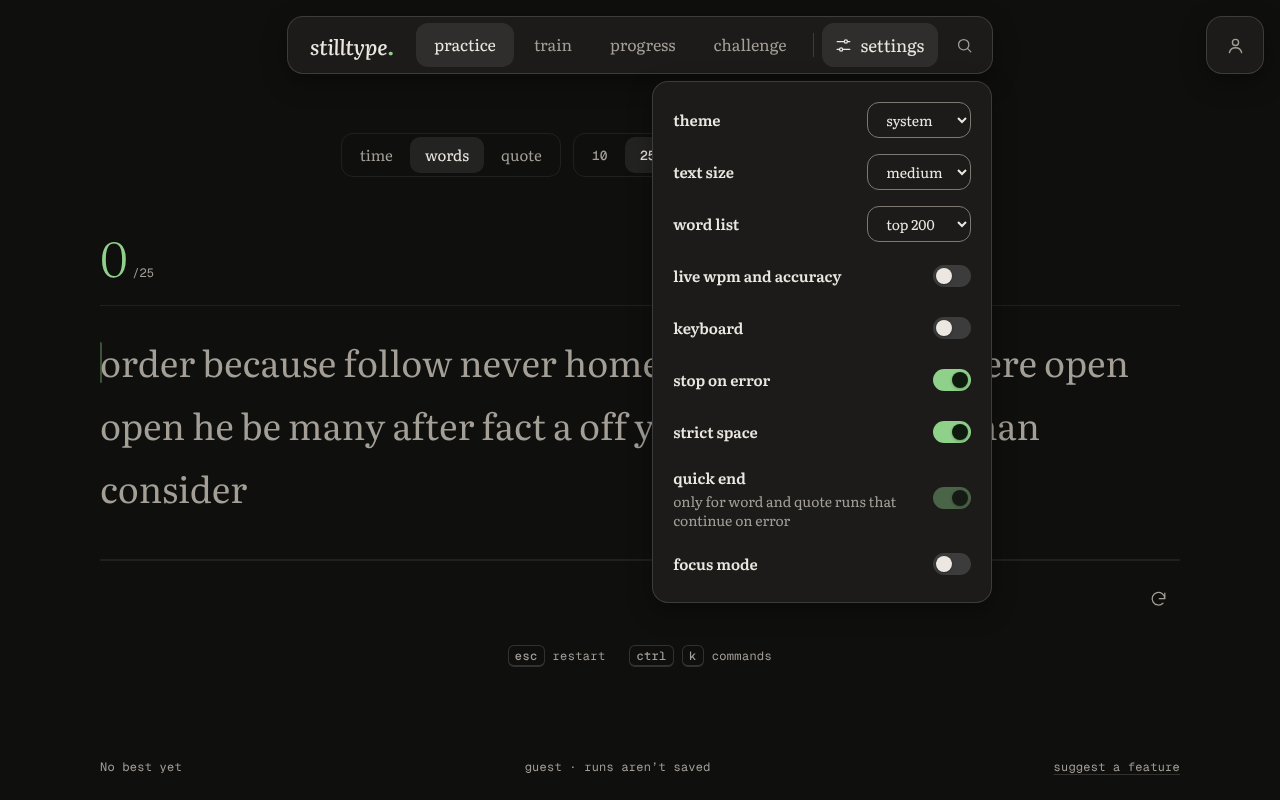
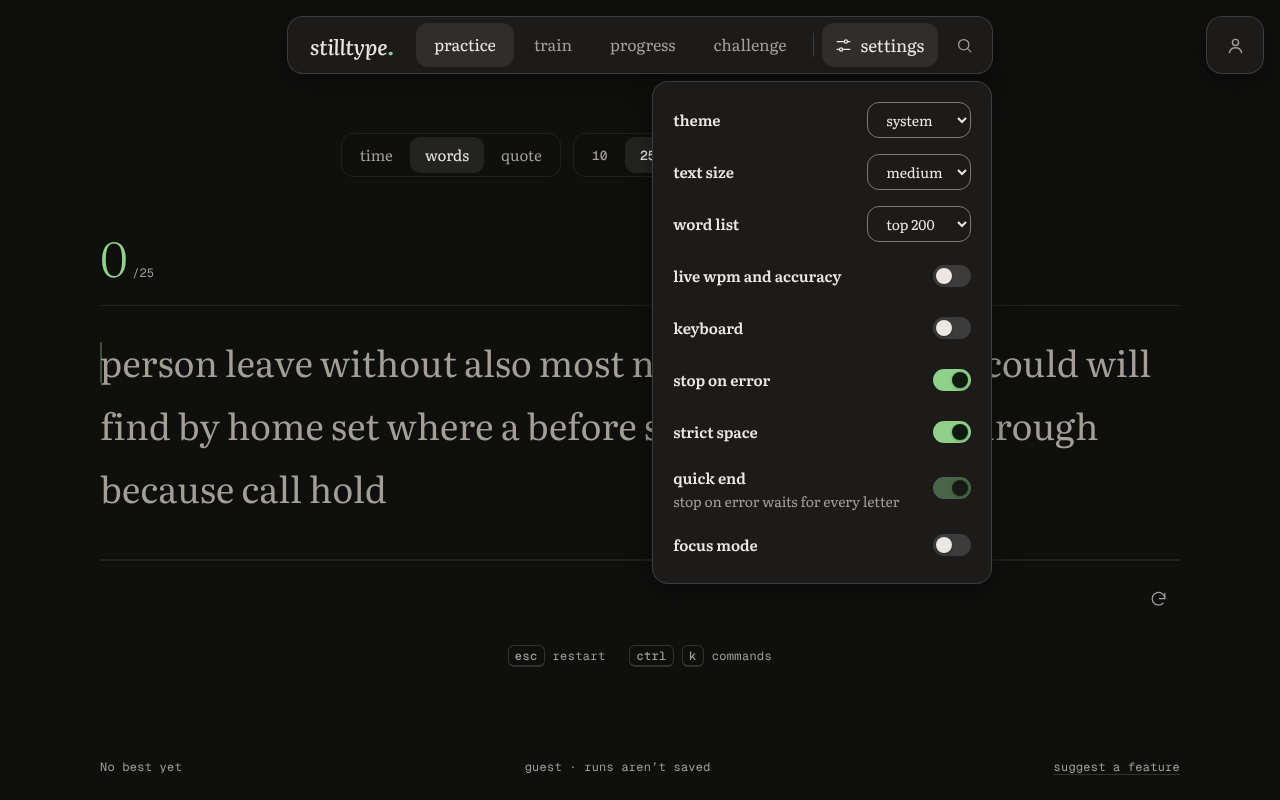
Read input rule limits from the session, not the test shape
Quick end is disabled in every drill (a timed minute whatever its baseline) and a
rule change restarts the same session kind; the daily and a retest keep their rules.

Claude-Session: https://claude.ai/code/session_01SaBNo9RHRaTR8cCUjK1iLD

diff --git a/src/app.js b/src/app.js
@@ -205,11 +205,12 @@ function describeRules(value) {
   return inputRules(value).map((rule) => ` · ${RULE_LABELS[rule]}`).join('');
 }
 
-// A drill is always one minute of generated text, whatever the baseline was, so quick end never applies.
+// A drill is always one minute of generated text, whatever the baseline was. Its conditions record
+// quick end at the default (sessionConditions), so only rules that applied are listed.
 function describeRun(run) {
   if (run.kind === 'daily') return `daily · ${run.challengeDate} · ${run.firstDailyAttempt ? 'first attempt' : 'repeat attempt'}${run.firstDailyAttempt && !run.fresh ? ' · previously displayed passage' : ''} · ${describeConditions(run.conditions)}`;
   if (run.kind !== 'drill') return describeConditions(run.conditions);
-  return `drill · 60 s · english · ${run.conditions.inputClass === 'touch' ? 'touch input' : 'physical keyboard'} · ${run.conditions.correctionPolicy === 'relaxed' ? 'continue on error' : 'stop on error'}${describeRules({ ...run.conditions, mode: 'time' })}`;
+  return `drill · 60 s · english · ${run.conditions.inputClass === 'touch' ? 'touch input' : 'physical keyboard'} · ${run.conditions.correctionPolicy === 'relaxed' ? 'continue on error' : 'stop on error'}${describeRules(run.conditions)}`;
 }
 
 function signed(value, unit) {
@@ -297,8 +298,7 @@ function applyPreferences() {
   $('live-toggle').checked = prefs.liveMetrics;
   $('keyboard-toggle').checked = prefs.keyboard;
   $('stop-on-error-toggle').checked = prefs.stopOnError;
-  $('strict-space-toggle').checked = prefs.strictSpace;
-  syncQuickEnd();
+  syncRules();
   $('focus-toggle').checked = prefs.focusMode;
   $('keyboard').hidden = !prefs.keyboard;
   applyTheme();
@@ -309,17 +309,30 @@ function applyPreferences() {
   showBest();
 }
 
-// Quick end only changes word and quote runs that let a mistake stand. Elsewhere the switch is
-// disabled but keeps its value, like punctuation in a quote test, and a note says where it applies.
-function syncQuickEnd() {
-  const applies = quickEndApplies(conditions());
-  $('quick-end-toggle').disabled = !applies;
+// Why a rule switch can't change the session on hand, shown under it and read as its description.
+const RULE_NOTES = {
+  drill: 'drills end on the clock',
+  timed: 'timed runs end on the clock',
+  stopOnError: 'stop on error waits for every letter',
+  daily: 'the daily keeps its own rules',
+  retest: 'a retest keeps its baseline’s rules',
+};
+
+// Quick end only changes word and quote runs that let a mistake stand. Where the session can't take
+// it the switch is disabled but keeps its value, like punctuation in a quote test; #rules-note says
+// when the session keeps the rules it started with. Synced on every preference and view change.
+function syncRules() {
+  const limits = ruleLimits(ruleSession());
+  $('strict-space-toggle').checked = prefs.strictSpace;
   $('quick-end-toggle').checked = prefs.quickEnd;
-  $('quick-end-note').hidden = applies;
+  $('quick-end-toggle').disabled = Boolean(limits.quickEnd);
+  for (const [id, reason] of [['quick-end-note', limits.quickEnd], ['rules-note', limits.fixed]]) {
+    $(id).textContent = RULE_NOTES[reason] || '';
+    $(id).hidden = !reason;
+  }
 }
 
 function setModeControls() {
-  syncQuickEnd();
   document.querySelectorAll('[data-mode]').forEach((button) => {
     const selected = button.dataset.mode === prefs.mode;
     button.classList.toggle('is-active', selected);
@@ -466,11 +479,46 @@ function choosePassage(extraSeen = []) {
   });
 }
 
-function sessionDurationMs() {
-  if (sessionKind === 'daily') return null;
-  if (sessionKind === 'drill') return 60000;
+function sessionDurationMs(kind = sessionKind) {
+  if (kind === 'daily') return null;
+  if (kind === 'drill') return 60000;
   if (prefs.mode === 'time') return prefs.duration * 1000;
   return null;
+}
+
+// Why strict space and quick end can't change a session's run, read from the session itself (its
+// kind, its timing and the conditions its run was built with), never from the test-shape
+// preferences: a drill started from a words baseline is still a timed minute. quickEnd names why
+// quick end does nothing there ('' when it applies); fixed names a session that keeps the rules it
+// started with (the daily's are set, and a retest has to match its baseline).
+function ruleLimits({ kind, run }) {
+  return {
+    fixed: kind === 'daily' || kind === 'retest' ? kind : '',
+    quickEnd: sessionDurationMs(kind) !== null ? (kind === 'drill' ? 'drill' : 'timed')
+      : run.correctionPolicy === 'relaxed' ? '' : 'stopOnError',
+  };
+}
+
+// The session the rule switches act on: the run waiting or in progress or, once it's over, the next
+// one, which Run again makes the daily again or a practice run.
+function ruleSession() {
+  if (attempt && ['ready', 'running'].includes(attempt.status)) return { kind: sessionKind, run: attempt.conditions };
+  const kind = sessionKind === 'daily' ? 'daily' : 'practice';
+  return { kind, run: sessionConditions(kind) };
+}
+
+// The conditions a new run of this kind is built with. The daily's rules are fixed and a retest
+// takes its baseline's, whatever the switches say now. A rule that can't change the run is recorded
+// at its default, so a drill's conditions and key never carry quick end.
+function sessionConditions(kind) {
+  if (kind === 'daily') return dailyConditions();
+  const run = conditions();
+  if (kind === 'retest' && baselineAttempt) {
+    run.strictSpace = baselineAttempt.conditions.strictSpace === true;
+    run.quickEnd = baselineAttempt.conditions.quickEnd !== false;
+  }
+  if (ruleLimits({ kind, run }).quickEnd) run.quickEnd = true;
+  return run;
 }
 
 function configureSessionCopy() {
@@ -538,7 +586,7 @@ function resetSession(kind = sessionKind, { focus = false, selectedPassage = nul
     text: passage.text,
     textId: passage.id,
     kind: kind === 'practice' ? 'test' : kind,
-    conditions: kind === 'daily' ? dailyConditions() : conditions(),
+    conditions: sessionConditions(kind),
   });
   if (kind === 'daily') {
     attempt.challengeDate = passage.day;
@@ -1060,6 +1108,7 @@ function switchView(view) {
     else control.removeAttribute('aria-current');
   });
   setRunning(false);
+  syncRules();
   // Pills in a hidden screen measured zero width; remeasure every group now it is visible.
   updateGlides();
   if (view === 'progress') renderHistory();
@@ -1070,7 +1119,9 @@ function switchView(view) {
 
 function navigate(view) {
   if (view === 'practice') {
-    if (!attempt || sessionKind !== 'practice' || ['complete', 'interrupted'].includes(attempt.status)) resetSession('practice');
+    // A waiting passage is rebuilt if strict space or quick end changed while another screen showed.
+    const staleRules = attempt && inputRules(attempt.conditions).join() !== inputRules(sessionConditions('practice')).join();
+    if (!attempt || sessionKind !== 'practice' || ['complete', 'interrupted'].includes(attempt.status) || staleRules) resetSession('practice');
     switchView('practice');
     return;
   }
@@ -1985,16 +2036,19 @@ function setStopOnError(enabled) {
   if (document.body.dataset.view === 'practice') resetSession('practice');
 }
 
-// Strict space and quick end change how a run is scored, so like stop on error they start a fresh
-// passage. The daily keeps its fixed rules, so it stays; a practice passage that hasn't started is
-// rebuilt from any screen, so the run on return matches the switch.
+// Strict space and quick end change how a run is scored, so a change on the practice screen starts
+// the session again as the same kind: a drill stays a drill. A session that can't take it (quick
+// end in a timed run, the daily, a retest) carries on and the preference waits for a run it applies
+// to; the switch's note says why. Other screens stay put, and a practice passage left waiting there
+// is rebuilt when practice is shown again (navigate).
 function setInputRule(key, enabled) {
   if (prefs[key] === enabled) return;
   prefs[key] = enabled;
   applyPreferences();
   saveProfile();
-  if (sessionKind === 'daily') return;
-  if (document.body.dataset.view === 'practice' || (sessionKind === 'practice' && attempt?.status === 'ready')) resetSession('practice');
+  const limits = ruleLimits(ruleSession());
+  if (limits.fixed || (key === 'quickEnd' && limits.quickEnd)) return;
+  if (document.body.dataset.view === 'practice') resetSession(sessionKind);
 }
 
 function setWordList(id) {
@@ -2020,7 +2074,7 @@ function paletteCommands(query) {
     ...wordListIds.map((id) => ({ group: 'test', label: `word list · top ${id}`, keywords: 'common words vocabulary 200 1000 5000 10000 monkeytype easier harder', hint: prefs.wordList === id ? 'current' : '', on: prefs.wordList === id, disabled: prefs.mode === 'quote', run: () => { navigate('practice'); setWordList(id); } })),
     { group: 'test', label: 'stop on error', keywords: 'mistakes correction continue', hint: onOff(prefs.stopOnError), on: prefs.stopOnError, run: () => setStopOnError(!prefs.stopOnError) },
     { group: 'test', label: 'strict space', keywords: 'space bar early skip word mistakes input', hint: onOff(prefs.strictSpace), on: prefs.strictSpace, run: () => setInputRule('strictSpace', !prefs.strictSpace) },
-    { group: 'test', label: 'quick end', keywords: 'finish last word end mistakes submit confirm', hint: onOff(prefs.quickEnd), on: prefs.quickEnd, disabled: !quickEndApplies(conditions()), run: () => setInputRule('quickEnd', !prefs.quickEnd) },
+    { group: 'test', label: 'quick end', keywords: 'finish last word end mistakes submit confirm', hint: onOff(prefs.quickEnd), on: prefs.quickEnd, disabled: Boolean(ruleLimits(ruleSession()).quickEnd), run: () => setInputRule('quickEnd', !prefs.quickEnd) },
     ...['dark', 'light', 'system'].map((theme) => ({ group: 'display', label: `theme · ${theme}`, keywords: 'colour color mode appearance', hint: prefs.theme === theme ? 'current' : '', on: prefs.theme === theme, run: () => { prefs.theme = theme; applyTheme(); saveProfile(); } })),
     ...[['22', 'small'], ['28', 'medium'], ['36', 'large']].map(([size, name]) => ({ group: 'display', label: `text size · ${name}`, keywords: 'font passage bigger smaller', hint: prefs.fontSize === size ? 'current' : '', on: prefs.fontSize === size, run: () => { prefs.fontSize = size; applyPreferences(); saveProfile(); } })),
     { group: 'display', label: 'live metrics', keywords: 'wpm accuracy while typing', hint: onOff(prefs.liveMetrics), on: prefs.liveMetrics, run: () => togglePreference('liveMetrics') },

diff --git a/e2e/strict-space.spec.js b/e2e/strict-space.spec.js
@@ -1,9 +1,13 @@
-import { test, expect, chooseWords, openApp, openSettings, openView, passageText, typeInto } from './fixtures.js';
+import { test, expect, chooseWords, completePassage, openApp, openSettings, openView, passageText, typeInto } from './fixtures.js';
 
 // Committed docs screenshots are only rewritten when SCREENSHOTS is set; normal runs write to test output.
 const shot = (testInfo, name) => (process.env.SCREENSHOTS ? `docs/screenshots/strict-space/${name}` : testInfo.outputPath(name));
 const STRICT_NOTICE = 'Strict space is on. Type the next letter.';
 const SUBMIT_NOTICE = 'The last word has a mistake. Fix it, or press space to finish.';
+const TIMED_NOTE = 'timed runs end on the clock';
+const DRILL_NOTE = 'drills end on the clock';
+const DAILY_NOTE = 'the daily keeps its own rules';
+const RETEST_NOTE = 'a retest keeps its baseline’s rules';
 // A realistic typing pace for the runs that end up in screenshots.
 const PACE = { delay: 140 };
 
@@ -180,12 +184,12 @@ test('quick end off finishes as soon as the last word is fixed', async ({ page }
 
 test('quick end is disabled where it changes nothing, and the palette follows', async ({ page }) => {
   await openApp(page);
-  // Timed runs end on the clock. The switch keeps its value and says where it applies.
+  // Timed runs end on the clock. The switch keeps its value and says why it can't change the run.
   await openSettings(page);
   await expect(page.locator('#quick-end-toggle')).toBeDisabled();
   await expect(page.locator('#quick-end-toggle')).toBeChecked();
   await expect(page.locator('#quick-end-note')).toBeVisible();
-  await expect(page.locator('#quick-end-toggle')).toHaveAccessibleDescription('only for word and quote runs that continue on error');
+  await expect(page.locator('#quick-end-toggle')).toHaveAccessibleDescription(TIMED_NOTE);
   await page.locator('details.preferences summary').click();
   await page.keyboard.press('Control+k');
   await page.locator('#palette-input').fill('quick end');
@@ -197,11 +201,12 @@ test('quick end is disabled where it changes nothing, and the palette follows', 
   await expect(page.locator('#quick-end-toggle')).toBeEnabled();
   await expect(page.locator('#quick-end-toggle')).toBeChecked();
   await expect(page.locator('#quick-end-note')).toBeHidden();
+  await expect(page.locator('#quick-end-toggle')).toHaveAccessibleDescription('');
   // Stop on error already waits for every letter.
   await page.locator('#stop-on-error-toggle').check();
   await expect(page.locator('#quick-end-toggle')).toBeDisabled();
   await expect(page.locator('#quick-end-toggle')).toBeChecked();
-  await expect(page.locator('#quick-end-note')).toBeVisible();
+  await expect(page.locator('#quick-end-note')).toHaveText('stop on error waits for every letter');
   await page.locator('#stop-on-error-toggle').uncheck();
   await expect(page.locator('#quick-end-toggle')).toBeEnabled();
   await expect(page.locator('#quick-end-toggle')).toBeChecked();
@@ -234,7 +239,10 @@ test('the daily challenge keeps its fixed rules whatever these settings say', as
   await expect(page.locator('#typing-screen')).toHaveAttribute('data-session', 'daily');
   await expect(page.locator('#condition-line')).toContainText('first attempt');
   await expect(page.locator('#condition-line')).toContainText('continue on error · corpus');
-  // Changing a rule the daily ignores leaves the daily (and its first attempt) in place.
+  // Changing a rule the daily ignores leaves the daily (and its first attempt) in place, and says so.
+  await openSettings(page);
+  await expect(page.locator('#rules-note')).toHaveText(DAILY_NOTE);
+  await expect(page.locator('#quick-end-toggle')).toHaveAccessibleDescription(DAILY_NOTE);
   await setSwitch(page, 'strict-space-toggle', false);
   await expect(page.locator('#typing-screen')).toHaveAttribute('data-session', 'daily');
   await expect(page.locator('#condition-line')).toContainText('first attempt');
@@ -280,11 +288,88 @@ test('a retest of a stop-on-error baseline leaves the quick end preference alone
   await expect(page.locator('#quick-end-toggle')).toBeChecked();
 });
 
+test('a drill from a words baseline is timed: quick end is disabled and a rule change keeps the drill', async ({ page }, testInfo) => {
+  await page.emulateMedia({ colorScheme: 'dark' });
+  await openApp(page);
+  await chooseWords(page, 10);
+  await setSwitch(page, 'quick-end-toggle', false);
+  // Typed at a person's pace, since the best it sets shows in the screenshot.
+  await typeInto(page, await passageText(page), '#typing-input', PACE);
+  await expect(page.locator('body')).toHaveAttribute('data-view', 'results');
+  await page.locator('#start-drill').click();
+  await expect(page.locator('#typing-screen')).toHaveAttribute('data-session', 'drill');
+  // The baseline was a words run, but every drill is a timed minute, so quick end has nothing to change.
+  await expect(page.locator('#condition-line')).toHaveText('drill · 60 s · english · physical keyboard · continue on error');
+  await openSettings(page);
+  await expect(page.locator('#quick-end-toggle')).toBeDisabled();
+  await expect(page.locator('#quick-end-toggle')).not.toBeChecked();
+  await expect(page.locator('#quick-end-note')).toBeVisible();
+  await expect(page.locator('#quick-end-toggle')).toHaveAccessibleDescription(DRILL_NOTE);
+  await expect(page.locator('#rules-note')).toBeHidden();
+  await settle(page);
+  await page.screenshot({ path: shot(testInfo, 'drill-note-dark.png') });
+  await page.locator('details.preferences summary').click();
+  await page.keyboard.press('Control+k');
+  await page.locator('#palette-input').fill('quick end');
+  await expect(page.locator('#palette-list [role="option"]', { hasText: 'quick end' })).toHaveCount(0);
+  await page.keyboard.press('Escape');
+  await expect(page.locator('#palette')).toBeHidden();
+
+  // Strict space mid-drill starts the same drill again under the new rule; it never drops to practice.
+  const title = await page.locator('#session-title').textContent();
+  const drill = await passageText(page);
+  await typeInto(page, drill.slice(0, 3));
+  await expect(page.locator('#typing-status')).toHaveText('In progress');
+  await page.mouse.move(5, 5);
+  await page.mouse.move(40, 40);
+  await setSwitch(page, 'strict-space-toggle', true);
+  await expect(page.locator('body')).toHaveAttribute('data-view', 'practice');
+  await expect(page.locator('#typing-screen')).toHaveAttribute('data-session', 'drill');
+  await expect(page.locator('#session-title')).toHaveText(title);
+  await expect(page.locator('#typing-status')).toHaveText('Ready');
+  await expect(page.locator('#condition-line')).toHaveText('drill · 60 s · english · physical keyboard · continue on error · strict space');
+  expect(await passageText(page)).toBe(drill);
+  const at = midWord(drill);
+  await typeInto(page, `${drill.slice(0, at)} `);
+  await expect(page.locator('#typing-input')).toHaveValue(drill.slice(0, at));
+  await expect(page.locator('#input-help')).toHaveText(STRICT_NOTICE);
+});
+
+test('a rule changed during a retest keeps the retest on its baseline’s rules', async ({ page }, testInfo) => {
+  await page.emulateMedia({ colorScheme: 'light' });
+  await openApp(page);
+  await chooseWords(page, 10);
+  await completePassage(page);
+  await page.locator('#skip-to-retest').click();
+  await expect(page.locator('#typing-screen')).toHaveAttribute('data-session', 'retest');
+  await openSettings(page);
+  await expect(page.locator('#rules-note')).toHaveText(RETEST_NOTE);
+  await page.locator('#strict-space-toggle').check();
+  await expect(page.locator('#strict-space-toggle')).toHaveAccessibleDescription(RETEST_NOTE);
+  await settle(page);
+  await page.screenshot({ path: shot(testInfo, 'retest-note-light.png') });
+  await page.locator('details.preferences summary').click();
+  await expect(page.locator('#typing-screen')).toHaveAttribute('data-session', 'retest');
+  await expect(page.locator('#condition-line')).not.toContainText('strict space');
+  // Esc restarts the retest under the baseline's rules too, so it stays comparable.
+  await page.locator('#typing-input').focus();
+  await page.keyboard.press('Escape');
+  await expect(page.locator('#typing-screen')).toHaveAttribute('data-session', 'retest');
+  await expect(page.locator('#condition-line')).not.toContainText('strict space');
+  await completePassage(page);
+  await expect(page.locator('#comparison-panel')).toHaveAttribute('data-outcome', /^(improved|mixed|regressed|steady)$/);
+  // The preference waits for the next practice run.
+  await page.locator('#run-again').click();
+  await expect(page.locator('#condition-line')).toContainText('continue on error · strict space');
+});
+
 test('a rule changed on another screen rebuilds the waiting practice passage', async ({ page }) => {
   await openApp(page);
   await chooseWords(page, 10);
   await openView(page, 'Progress');
   await setSwitch(page, 'strict-space-toggle', true);
+  // The change waits for practice; it doesn't pull the person off the screen they are on.
+  await expect(page.locator('body')).toHaveAttribute('data-view', 'progress');
   await openView(page, 'Practice');
   await expect(page.locator('#condition-line')).toContainText('continue on error · strict space');
   const text = await passageText(page);

diff --git a/index.html b/index.html
@@ -79,12 +79,12 @@
               <input class="switch" id="stop-on-error-toggle" type="checkbox">
             </label>
             <label class="preference-row" for="strict-space-toggle">
-              <span><strong>strict space</strong></span>
-              <input class="switch" id="strict-space-toggle" type="checkbox">
+              <span><strong>strict space</strong><small class="preference-note" id="rules-note" hidden></small></span>
+              <input class="switch" id="strict-space-toggle" type="checkbox" aria-describedby="rules-note">
             </label>
             <label class="preference-row" for="quick-end-toggle">
-              <span><strong>quick end</strong><small class="preference-note" id="quick-end-note" hidden>only for word and quote runs that continue on error</small></span>
-              <input class="switch" id="quick-end-toggle" type="checkbox" checked aria-describedby="quick-end-note">
+              <span><strong>quick end</strong><small class="preference-note" id="quick-end-note" hidden></small></span>
+              <input class="switch" id="quick-end-toggle" type="checkbox" checked aria-describedby="quick-end-note rules-note">
             </label>
             <label class="preference-row" for="focus-toggle">
               <span><strong>focus mode</strong></span>

diff --git a/HANDOFF.md b/HANDOFF.md
@@ -18,7 +18,7 @@ Product behaviour:
 - Spacious, borderless typing with centered mode/length controls, a stable three-line passage, a solid caret and tinted errors.
 - Time and word-count tests draw from a chosen common-word list — top 200 (default, Monkeytype's default "english" list), 1k, 5k or 10k — set in settings or the palette (`src/words.js`; current corpus version v5). The word list is part of the test conditions, so bests and retests never mix lists. Original quote tests; quote length and descriptive difficulty filters; explicit empty-filter recovery.
 - Saved theme, text size, word list, keyboard, live metrics, stop-on-error and focus preferences. Focus mode has an exit and Escape support.
-- Strict space and quick end (settings and palette). Strict space, off by default, refuses a space typed where the passage has a letter: it counts as a wrong key at that position (an `accepted: false` insert, which replay v1 already scored), the caret stays and the skipped letter is tinted until the next key. Quick end, on by default, is master's rule for continue on error: a word or quote run ends on its last letter, right or wrong. Off, a mistake in the last word holds the run until it is fixed or space submits it (a `submit` event replay ignores). Stop on error keeps master's rule too, waiting for every letter: quick end doesn't apply there, because on by default it would change existing stop-on-error runs and their bests. Elsewhere (timed runs, stop on error) the quick end switch is disabled, keeps its value and says where it applies. Each rule is in `conditionKey` only when it differs from the default and applies, so existing bests keep their keys; the daily challenge keeps its fixed rules.
+- Strict space and quick end (settings and palette). Strict space, off by default, refuses a space typed where the passage has a letter: it counts as a wrong key at that position (an `accepted: false` insert, which replay v1 already scored), the caret stays and the skipped letter is tinted until the next key. Quick end, on by default, is master's rule for continue on error: a word or quote run ends on its last letter, right or wrong. Off, a mistake in the last word holds the run until it is fixed or space submits it (a `submit` event replay ignores). Stop on error keeps master's rule too, waiting for every letter: quick end doesn't apply there, because on by default it would change existing stop-on-error runs and their bests. Which rules a session can take is read from that session (its kind, timing and run conditions; `ruleLimits` in `src/app.js`), never from the test-shape preferences: wherever quick end can't change the run (timed runs, every drill whatever its baseline, stop on error) its switch is disabled, keeps its value and says why, and the run records it at the default. A rule change restarts the session as the same kind (a drill stays a drill); the daily and a retest keep the rules they started with (a retest takes its baseline's, so it stays comparable) and say so, and the preference waits for the next run. Other screens stay put; a practice passage left waiting there is rebuilt when practice is shown. Each rule is in `conditionKey` only when it differs from the default and applies, so existing bests keep their keys.
 - Per-user sessions. Everyone starts in guest mode: default settings, and nothing is written to storage. The person button (top right; `#account`) offers Create account, Sign in with Google and Sign in with email. Signed-in profiles are cached per user on the device (`stilltype-profile-v2:<user id>`) and synced to Supabase; the newer copy wins on load. Saves only stamp the profile once that first comparison has succeeded (retried when the browser comes back online), so a stale cache can never look newer than the account. Signing out clears that user's device cache unless edits failed to sync. The pre-accounts `stilltype-profile-v2` history is merged into the first account confirmed to have no saved profile; it stays in place if that check fails.
 - Versioned deterministic replay, retained first-attempt mistakes, condition-filtered recommendations, sample thresholds and clean pair timing.
 - A real one-minute drill stage, automatic or manually selected. Manual drills work without a baseline; a baseline enables the fresh comparable retest.

diff --git a/docs/ui-contract.md b/docs/ui-contract.md
@@ -21,7 +21,7 @@ The dock (`nav.dock` in `.dock-zone`) holds the brand link, the `.dock-nav` view
 
 Selection pills: a `.glide` container with `data-glide="current"` follows `aria-current`; `data-glide="pressed"` follows `aria-pressed`. Its `.glide-pill` is aria-hidden decoration; state always lives in the ARIA attributes and `.is-active`.
 
-Settings are `#theme-select` (`system`, `dark`, `light`), `#font-size` (`22`, `28`, `36`), `#live-toggle`, `#keyboard-toggle`, `#stop-on-error-toggle`, `#strict-space-toggle`, `#quick-end-toggle` and `#focus-toggle`; `#exit-focus` sits outside the dock. Apply theme as `html[data-theme]`; font size as `body[data-font-size]`; live metrics as `body[data-live-metrics]`; keyboard as `body[data-keyboard]`; focus mode as `body[data-focus-mode]`. Stop on error defaults on; turning it off permits advancement after mistakes. Changing the correction policy starts a new practice run. The policy is stored in run conditions, keeping bests and comparisons separate. Strict space (off by default) refuses a space where the passage has a letter, scoring it as a wrong key without moving the caret and tinting the skipped letter until the next key. Quick end (on by default) ends a continue-on-error word or quote run on its last letter; off, a mistake in the last word waits for a fix or a space. `#quick-end-toggle` is disabled for timed runs and stop on error, keeping its value, and `#quick-end-note` says where it applies. Both start a new practice run when changed (a ready practice passage is rebuilt from any screen) and enter run conditions only when they differ from the defaults; the daily challenge ignores them and isn't replaced. The generated keyboard belongs in `#keyboard`. Escape or `#exit-focus` exits focus mode before applying the ordinary Escape restart behavior.
+Settings are `#theme-select` (`system`, `dark`, `light`), `#font-size` (`22`, `28`, `36`), `#live-toggle`, `#keyboard-toggle`, `#stop-on-error-toggle`, `#strict-space-toggle`, `#quick-end-toggle` and `#focus-toggle`; `#exit-focus` sits outside the dock. Apply theme as `html[data-theme]`; font size as `body[data-font-size]`; live metrics as `body[data-live-metrics]`; keyboard as `body[data-keyboard]`; focus mode as `body[data-focus-mode]`. Stop on error defaults on; turning it off permits advancement after mistakes. Changing the correction policy starts a new practice run. The policy is stored in run conditions, keeping bests and comparisons separate. Strict space (off by default) refuses a space where the passage has a letter, scoring it as a wrong key without moving the caret and tinting the skipped letter until the next key. Quick end (on by default) ends a continue-on-error word or quote run on its last letter; off, a mistake in the last word waits for a fix or a space. What a session can take comes from that session (its kind, timing and run conditions), not the test-shape preferences: `#quick-end-toggle` is disabled, keeping its value, wherever quick end can't change the run (timed runs, including every drill, and stop on error), and `#quick-end-note` says why. A change on the practice screen restarts the session as the same kind; the daily and a retest keep the rules they started with, carry on, and `#rules-note` (read by both switches) says so. Other screens stay put, and a practice passage left waiting there is rebuilt when practice is shown again. Both enter run conditions only when they differ from the defaults and apply to the run. The generated keyboard belongs in `#keyboard`. Escape or `#exit-focus` exits focus mode before applying the ordinary Escape restart behavior.
 
 The command palette is `dialog#palette`. `#palette-input` is a combobox controlling `#palette-list` (a listbox rebuilt from the app's commands on every keystroke, so hints show current state); `#palette-empty` shows when nothing matches; `.palette-highlight` is aria-hidden. Ctrl-K / ⌘K and `#palette-trigger` open it; Escape closes it and returns focus. Opening it closes settings, and opening it during a run marks that run interrupted.
 
